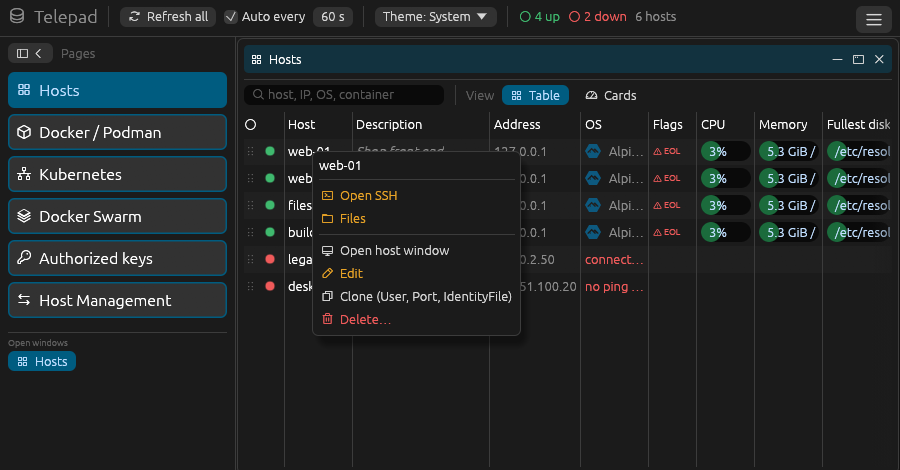
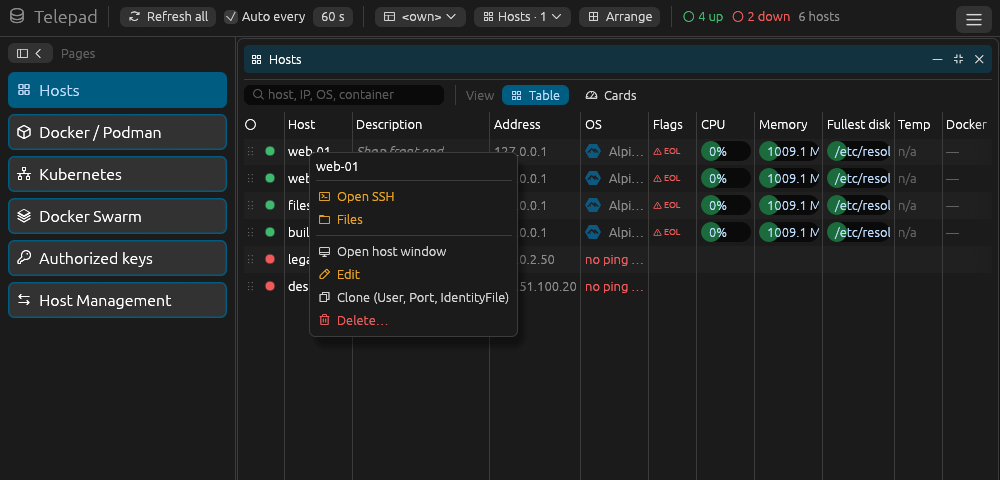
docs(readme): top bar tools, workspaces and Host Management; new screenshots (#92, #93, #94)
Screenshots retaken from a throwaway workspace (made-up host names, local
lab containers, documentation addresses), 1000 × 480 so the wider top bar
fits; new workspaces.png for the workspace dropdown and Arrange → Tile.
The host window is left out as before (it shows this PC's hardware).

Changed region(s): [[0.0, 0.0, 1.0, 0.7149], [0.0, 0.7149, 0.0933, 0.8043]]

diff --git a/README.md b/README.md
@@ -6,7 +6,7 @@ A small desktop infrastructure monitor written in Rust. Telepad logs in to your
 hosts with the **system OpenSSH client** and the keys you already use, runs a
 **read-only** POSIX shell script, and shows per host (everything in one window: a page
 sidebar on the left, pages as windows inside Telepad that can be moved, resized,
-minimized, maximized and tabbed):
+minimized, maximized, tabbed and arranged, kept in named workspaces like MikroTik WinBox):
 
 - OS name and logo, kernel, architecture, uptime
 - CPU model, cores, usage %, load average
@@ -24,9 +24,9 @@ minimized, maximized and tabbed):
   editor (tabs, syntax colours, find / replace, line endings kept, changed-on-host check)
 - **Authorized keys**: the keys in each host's `authorized_keys`, by server or by key,
   and add or revoke one SSH public key on many hosts at once
-- **Host Management…**: Telepad's hosts next to `~/.ssh/config` (or another config
-  file); copy, edit or delete per host, merge / replace / sync, with a preview and a
-  backup before the file is written
+- **Host Management**: add, import (OpenSSH config, JSON, pasted text) and export hosts;
+  Telepad's hosts next to `~/.ssh/config` (or another config file); copy, edit or delete
+  per host, merge / replace / sync, with a preview and a backup before the file is written
 - **Open database…**: a HeidiSQL-style window for MariaDB / MySQL / PostgreSQL in a
   container or on the host, through the SSH login (tree, data grid with editing, queries,
   table structure); passwords optionally in the system password store
@@ -54,8 +54,8 @@ Releases are built for Windows (x86_64), macOS (Apple silicon and Intel) and Lin
    Start-menu entry; uninstall it in **Settings → Apps**.
 2. Start **Telepad** from the Start menu.
 
-Your hosts and settings live in `%APPDATA%\Telepad\telepad.db`, and uninstalling keeps
-them. To import an existing OpenSSH config on the first start, put it there as `config`, or
+Your hosts and settings live in `%APPDATA%\Telepad\telepad.db` (workspaces in
+`preference.db` next to it), and uninstalling keeps them. To import an existing OpenSSH config on the first start, put it there as `config`, or
 use **Host Management → Import → From ~/.ssh/config**.
 
 ### Windows (portable zip)
@@ -91,7 +91,8 @@ choose **More info → Run anyway**.
 
 3. Start Telepad from Applications or Launchpad. **Open SSH** uses Terminal.app.
 
-Hosts and settings live in `~/Library/Application Support/Telepad/telepad.db`; put an
+Hosts and settings live in `~/Library/Application Support/Telepad/telepad.db` (workspaces
+in `preference.db` next to it); put an
 OpenSSH config there as `config` to import it on the first start, or use
 **Host Management → Import → From ~/.ssh/config**. A portable zip (`telepad-<version>-macos-<arch>.zip`)
 is also published; it keeps its data next to the program and needs the same `xattr` step
@@ -109,8 +110,8 @@ for its folder.
 
 The Linux builds are made on Ubuntu 22.04 and need glibc 2.35 or newer.
 
-On every platform the folder must stay writable: `telepad.db` is created next to the
-program, and in-app updates replace the programs in place.
+On every platform the folder must stay writable: `telepad.db` and `preference.db` are
+created next to the program, and in-app updates replace the programs in place.
 
 ### With Cargo (any platform)
 
@@ -120,7 +121,8 @@ cargo install --git https://github.com/yohannaftali/telepad --locked telepad-gui
 
 This builds and installs `telepad` and `telepad-check` into `~/.cargo/bin`. See
 [Building from source](CONTRIBUTING.md#building-from-source) for the prerequisites. When installed this way,
-pass `--db <path>` (or set `TELEPAD_DB`) so the database does not live in `~/.cargo/bin`,
+pass `--db <path>` (or set `TELEPAD_DB`) so the database does not live in `~/.cargo/bin`
+(`preference.db` goes next to it; `--prefs <path>` / `TELEPAD_PREFS` to put it elsewhere),
 and update with the same `cargo install` command instead of the in-app updater.
 
 ### Requirements on your PC
@@ -151,8 +153,8 @@ systems and NAS devices work and missing tools only hide that section.
    ```
 
 2. Start Telepad. On the first start the hosts from `config` are imported into
-   `telepad.db`, and every host is checked once. No config? Open **Host Management** in the sidebar and use **Add host…**
-   or **Import → From ~/.ssh/config**.
+   `telepad.db`, and every host is checked once. No config? Open **Host Management** in
+   the sidebar and use **Add host…** or **Import → From ~/.ssh/config**.
 3. The **Hosts** page shows every host: status, OS, CPU, memory, disks, Docker. Click a
    row for the host's own window (details, sensors, ports, containers).
 4. **Right-click** a host for its menu: **Open SSH** (a terminal logged in to it),
@@ -164,12 +166,22 @@ systems and NAS devices work and missing tools only hide that section.
 
 Telepad is one window. The **sidebar** on the left opens pages; each page opens as a window
 **inside** Telepad that you can move (drag its title), resize (drag its right or bottom
-edge), minimize (**_**, it waits in a strip at the bottom), maximize (**□**, or double-click
-the title) and close (**×**). Put two pages in one window as tabs with the **⧉** button.
-The **window picker** in the top bar lists everything that is open — type to search, Enter to
-bring a window to the front; the **▯ ‹** button folds the sidebar to icons. **Arrange** tiles, stacks, minimizes or restores all windows, and the
-**workspace** dropdown keeps several saved sets of windows (WinBox style: `<none>`, `<own>`
-and your own, saved automatically in `preference.db`).
+edge), minimize (**−**, it waits in a strip at the bottom), maximize (corners out, or
+double-click the title) and close (**×**). Put two pages in one window as tabs with the
+**⧉** button; the **▯ ‹** button folds the sidebar to icons.
+
+The **top bar** holds the tools for those windows:
+
+- **Workspace** (`<own>` at first): saved sets of windows with their places, like MikroTik
+  WinBox. **Add…** keeps the windows that are open now under a name, picking a workspace
+  closes the current windows and opens its own, the trash icon deletes one, and `<none>`
+  closes every window. Changes are saved automatically in `preference.db`.
+- **Window picker**: the window in front and how many are open; click it for the list of
+  every open window — type to search, Enter brings that window to the front.
+- **Arrange**: **Tile** side by side, **Stack** as a cascade, **Minimize all**, **Restore all**.
+- **☰**: **Settings → Theme** (System / Light / Dark) and **Software update…**.
+
+![Two custom workspaces, three windows tiled](docs/images/workspaces.png)
 
 | Page | What you do there |
 |---|---|
@@ -177,7 +189,7 @@ and your own, saved automatically in `preference.db`).
 | **Docker / Podman** | Every container of every host, grouped by compose stack, with start / stop / logs / shell actions (each one shown and confirmed in a terminal) |
 | **Kubernetes**, **Docker Swarm** | The clusters found on your hosts: nodes, workloads, services, problems |
 | **Authorized keys** | Who can log in with which SSH key: by server or by key, grouped by the `#` comment lines in `authorized_keys`. Add or revoke a key on many servers at once (you type `add` / `revoke` to confirm), or edit the file |
-| **Host Management** | Compare Telepad's hosts with `~/.ssh/config` and copy, edit or delete hosts on either side |
+| **Host Management** | **Add host…**, **Import** (from a file, `~/.ssh/config` or pasted text) and **Export…**; compare Telepad's hosts with `~/.ssh/config` and copy, edit or delete hosts on either side |
 
 ![Authorized keys, by server](docs/images/authorized-keys.png)
 
